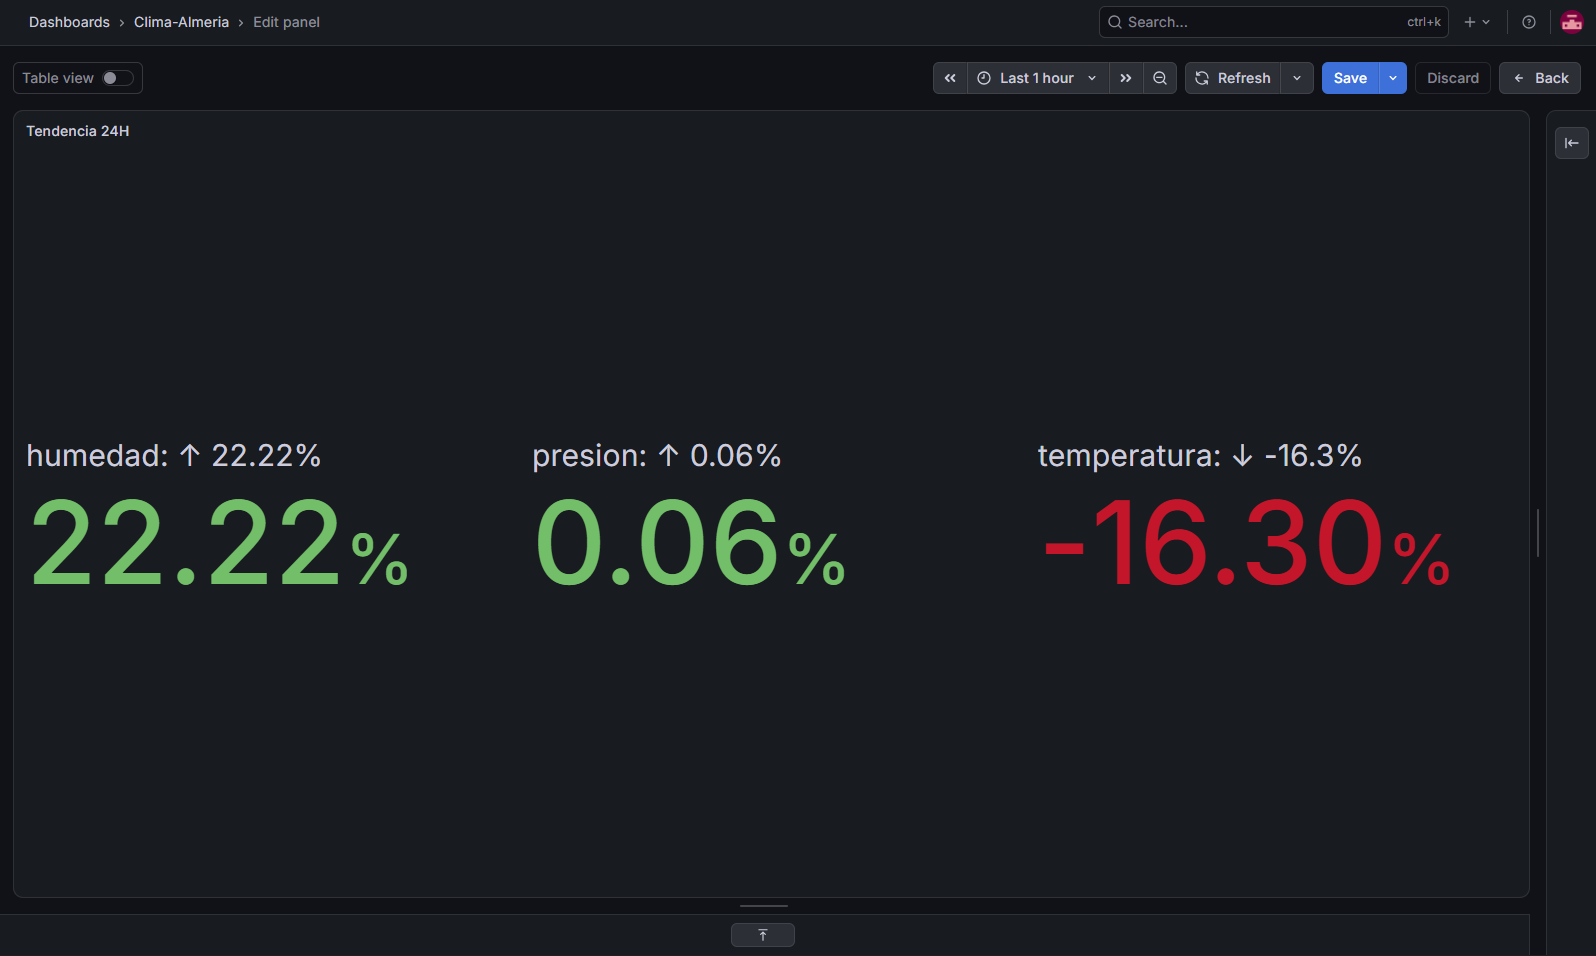
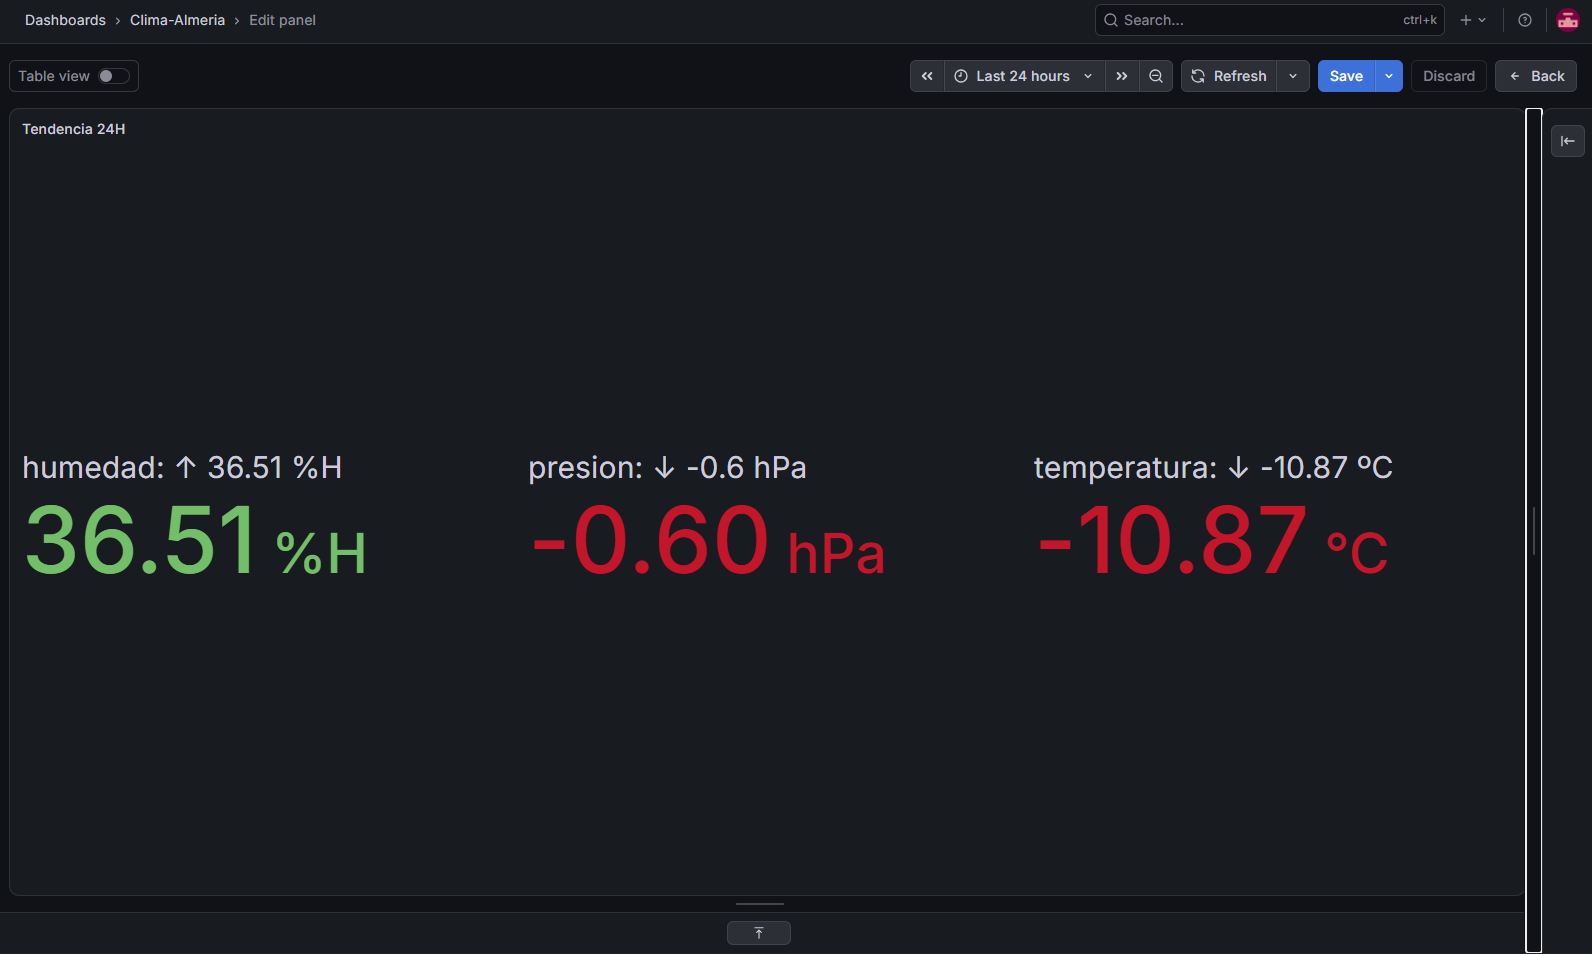
Cambios

diff --git a/readme.md b/readme.md
@@ -120,30 +120,55 @@ return msg;
   ```flux
   import "math"
 
-  from(bucket: "Almeria")
-    |> range(start: -24h, stop: now())
-    |> filter(fn: (r) => r["_measurement"] == "almeria_clima" and (r["_field"] == "temperatura" or r["_field"] == "humedad" or r["_field"] == "presion"))
-    |> keep(columns: ["_time", "_field", "_value"])
-    |> group(columns: ["_field"])
-    |> sort(columns: ["_time"])
-    |> reduce(
-        fn: (r, accumulator) => ({
-          primero: if accumulator.count == 0 then r._value else accumulator.primero,
-          ultimo: r._value,
-          count: accumulator.count + 1
-        }),
-        identity: {primero: 0.0, ultimo: 0.0, count: 0}
-      )
-    |> map(fn: (r) => {
-        raw_pct = if r.primero != 0.0 then (r.ultimo - r.primero) / r.primero * 100.0 else 0.0
-        pct = math.round(x: raw_pct * 100.0) / 100.0
-        flecha = if pct >= 0.0 then "↑" else "↓"
-        return {
-          _time: now(),
-          _value: pct,
-          tendencia: r._field + ": " + flecha + " " + string(v: pct) + "%"
-        }
-      })
+from(bucket: "Almeria")
+  |> range(start: -24h, stop: now())
+  |> filter(fn: (r) =>
+    r["_measurement"] == "almeria_clima" and
+    (
+      r["_field"] == "temperatura" or
+      r["_field"] == "humedad" or
+      r["_field"] == "presion"
+    )
+  )
+  |> keep(columns: ["_time", "_field", "_value"])
+  |> group(columns: ["_field"])
+  |> sort(columns: ["_time"])
+  |> reduce(
+    fn: (r, accumulator) => ({
+      primero: if accumulator.count == 0 then r._value else accumulator.primero,
+      ultimo: r._value,
+      count: accumulator.count + 1,
+      campo: r._field
+    }),
+    identity: {
+      primero: 0.0,
+      ultimo: 0.0,
+      count: 0,
+      campo: ""
+    }
+  )
+  |> map(fn: (r) => {
+    raw_pct = if r.primero != 0.0 then
+      (r.ultimo - r.primero) / r.primero * 100.0
+    else
+      0.0
+
+    pct = math.round(x: raw_pct * 100.0) / 100.0
+
+    flecha = if pct >= 0.0 then "↑" else "↓"
+
+    unidad =
+      if r.campo == "humedad" then " %H"
+      else if r.campo == "presion" then " hPa"
+      else " ºC"
+
+    return {
+      _time: now(),
+      _field: r.campo,
+      _value: pct,
+      tendencia: r.campo + ": " + flecha + " " + string(v: pct) + unidad
+    }
+  })
   ```
 
 ---
